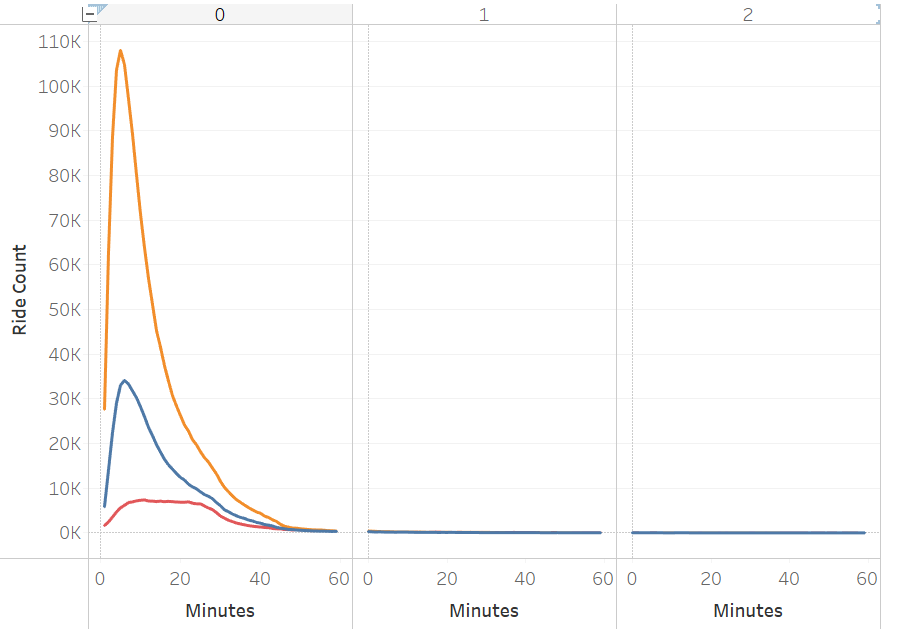
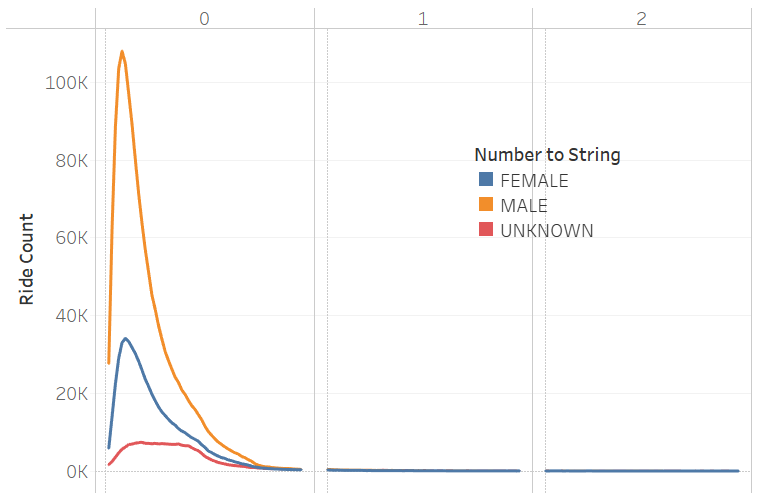
modified:   Images/2_checkout_times_by_gender.png         modified:   README.md

diff --git a/README.md b/README.md
@@ -1,12 +1,12 @@
 # Bikesharing
 
 ## Overview of the analysis
-provide analysis of NYC's Citibike data for potential investors in a Des Moines bikesharing startup
+This project is to provide analysis of NYC's Citibike data for potential investors in a Des Moines bikesharing startup.
 
-### Resources
+## Resources
 Data Source: https://s3.amazonaws.com/tripdata/JC-201908-citibike-tripdata.csv.zip
-Software: 
-
+Software: Tableau Public v. 022.4.0, Python with Pandas library and Jupyter Notebook, Visual Studio Code
+[Tableau Story](https://public.tableau.com/app/profile/john.mcmillan1659/viz/BikeSharingStory_16747030793770/BikesharingStory?publish=yes)
 
 ## Results
 Below are images of visualizations using Tableau
@@ -17,34 +17,59 @@ Below are images of visualizations using Tableau
 - almost all less than 40 minutes
 
 
-#### Checkout Times by Gender
+
+### Checkout Times by Gender
 ![this is an image](Images/2_checkout_times_by_gender.png)
-- 
-- 
+- The same pattern of short trips
+- Trip length by unknown gender users is longer
 
 
-#### Trips by Weekday per Hour
+
+### Trips by Weekday per Hour
 ![this is an image](Images/3_trips_by_weekday_per_hr.png)
+- Here we see that the heaviest usage is during weekday rush hours.
+- There is also steady usage throughout the weekend days.
 
 
-#### Trips by Gender (Weekday per Hour)
+
+### Trips by Gender (Weekday per Hour)
 ![this is an image](Images/4_trips_by_gender.png)
+- This illustrates very heavy male rush hour usage.
+- Female usage is steady across commute times and weekends.
+- There is more unknown gender usage on weekends.
 
 
-#### User Trips by Gender by Weekday
+
+### User Trips by Gender by Weekday
 ![this is an image](Images/5_trips_by_gender_per_weekday.png)
+- The heavy shading indicates that the customer base is predominantly male subscribers.
 
 
-#### Bike Repairs
+
+### Bike Repairs
 ![this is an image](Images/6_bike_repairs.png)
+- Each dot represents a bike.
+- The darker and larger dots indicate greater usage.
+- This type of data can help identify bikes in need of maintenance or repair.
 
 
-#### Customers vs. Subscribers
+
+### Customers vs. Subscribers
 ![this is an image](Images/7_customers_v_subscribers.png)
+- Most rides are by subscribers.
 
 
-#### Gender Breakdown
+
+### Gender Breakdown
 ![this is an image](Images/8_gender_breakdown.png)
+- Most rides are taken by males.
+
 
 
 ## Summary
+
+A large majority of rides take 20 minutes or less. This means the bike is quickly ready for another user. 
+
+Male subscribers who commute make up a large portion of Citibike users in New York City. A bike rental startup should strongly consider targeting this audience with marketing. Additional visualizations that provide exact percentages or ratios would be helpful in this area.
+
+The "Bike Repairs" chart shows that heavily-used bikes can be targeted for more maintenance and repairs. Likewise, costs can be cut by servicing the lesser-used bikes less often. Further analysis could provide the location of the heavily-used bikes. These bikes could perhaps be moved to slower locations for a longer lifespan.
